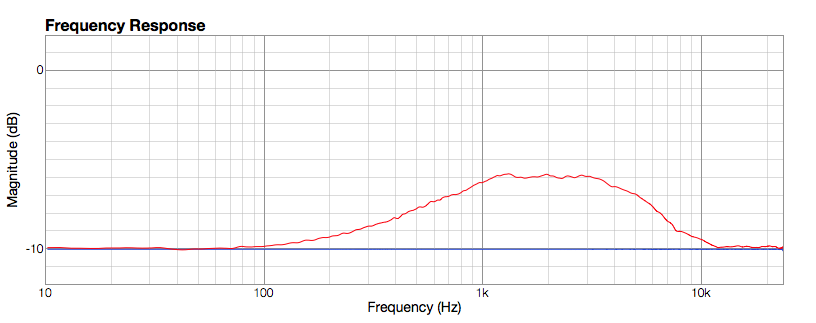
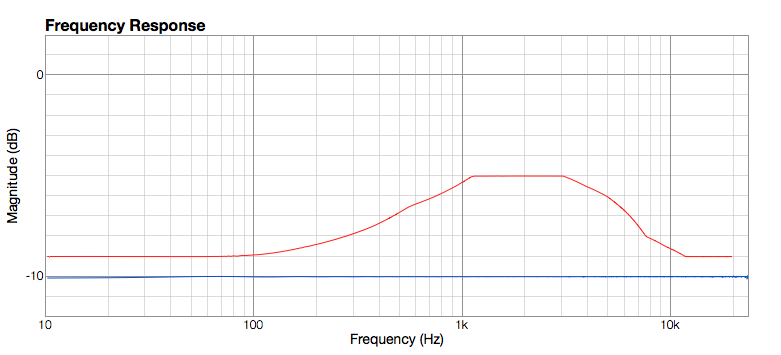
WebOS2.0 QA Spec Ver.19 * LF59 Clearvoice, Sports 스펙 변경 * UF64 모델 추가 * UF86, UF77 스펙 변경

diff --git a/WebOS/QASpec/QASpec.tex b/WebOS/QASpec/QASpec.tex
@@ -84,7 +84,7 @@
 % does not look nice, try deleting the line with the fontenc.
 
 \title[WebOS 2.0 QA spec \alert{LGE CONFIDENTIAL}] % (optional, use only with long paper titles)
-{LGSE QA Test Manual Ver.18}
+{LGSE QA Test Manual Ver.19}
 
 \subtitle
 {for H15/M14+ - WebOS 2.0} % (optional)
@@ -196,6 +196,8 @@
 \item 2015.02.27\_Ver.16 LF59 (webOS Lite) 스펙 추가, EF98 스펙 추가 (UF95와 동일)
 \item 2015.03.02\_Ver.17 LF59 (webOS Lite) Cinema Home 스펙 수정, EF98 스펙 수정 (UF85와 동일)
 \item 2015.03.09\_Ver.18 UF94 모델 추가
+\item 2015.04.01\_Ver.19 LF59 Clearvoice, Sports 스펙 변경 / UF64 모델 추가 / UF86, UF77 스펙 변경
+
 \end{scriptsize}
 \end{itemize}
 \end{frame}
@@ -418,6 +420,8 @@
 \begin{itemize}
 \large \item 다음 모델들의 스펙은 동일합니다.
 \huge \item UF95
+\huge \item UF86
+\huge \item UF77
 \end{itemize}
 \end{frame}
 
@@ -432,8 +436,6 @@
 \large \item 다음 모델들의 스펙은 동일합니다.
 \huge \item UF83
 \huge \item UF85
-\huge \item UF86
-\huge \item UF77
 \huge \item UG73
 \huge \item UG87
 \huge \item EF98
@@ -465,7 +467,8 @@
 \huge
 \begin{itemize}
 \large \item 다음 모델들의 스펙은 동일합니다.
-\huge \item LF59 (WebOS Lite, MTK A5LR)
+\huge \item LF59 (WebOS Lite)
+\huge \item LF64 (WebOS Lite)
 \end{itemize}
 \end{frame}
 \subimport{../LF59/}{LF59.tex}

diff --git a/WebOS/LF59/2_Sound_Mode/3_Sports/Sports.tex b/WebOS/LF59/2_Sound_Mode/3_Sports/Sports.tex
@@ -10,10 +10,10 @@ Audio EQ & \color{black}{Off} & Instart &
 \begin{itemize}
 \item Frequency Response Check
 	\begin{itemize}
-	\item 50Hz에서 ref 신호와의 레벨 차이값이 2.0±1dBr 이내
-	\item 100Hz에서 ref 신호와의 레벨 차이값이 2.0±1dBr 이내
-	\item 1kHz에서 ref 신호와의 레벨 차이값이 4.0±1dBr 이내
-	\item 10kHz에서 ref 신호와의 레벨 차이값이 6.0±1dBr 이내
+	\item 50Hz에서 ref 신호와의 레벨 차이값이 3.0±1dBr 이내
+	\item 100Hz에서 ref 신호와의 레벨 차이값이 3.0±1dBr 이내
+	\item 1kHz에서 ref 신호와의 레벨 차이값이 5.0±1dBr 이내
+	\item 10kHz에서 ref 신호와의 레벨 차이값이 7.0±1dBr 이내
 	\end{itemize}
 \end{itemize}
 } \\

diff --git a/WebOS/LF59/2_Sound_Mode/2_Clear Voice/Clearvoice.tex b/WebOS/LF59/2_Sound_Mode/2_Clear Voice/Clearvoice.tex
@@ -10,10 +10,10 @@ Audio EQ & \color{black}{Off} & Instart &
 \begin{itemize}
 \item Frequency Response Check
 	\begin{itemize}
-	\item 80Hz에서 ref 신호와의 레벨 차이값이 0±1dBr 이내
-	\item 1.3kHz에서 ref 신호와의 레벨 차이값이 4±1dBr 이내
-	\item 3kHz에서 ref 신호와의 레벨 차이값이 4±1dBr 이내
-	\item 11kHz에서 ref 신호와의 레벨 차이값이 0±1dBr 이내
+	\item 80Hz에서 ref 신호와의 레벨 차이값이 1±1dBr 이내
+	\item 1.3kHz에서 ref 신호와의 레벨 차이값이 5±1dBr 이내
+	\item 3kHz에서 ref 신호와의 레벨 차이값이 5±1dBr 이내
+	\item 11kHz에서 ref 신호와의 레벨 차이값이 1±1dBr 이내
 	\end{itemize}
 \end{itemize}
 } \\
